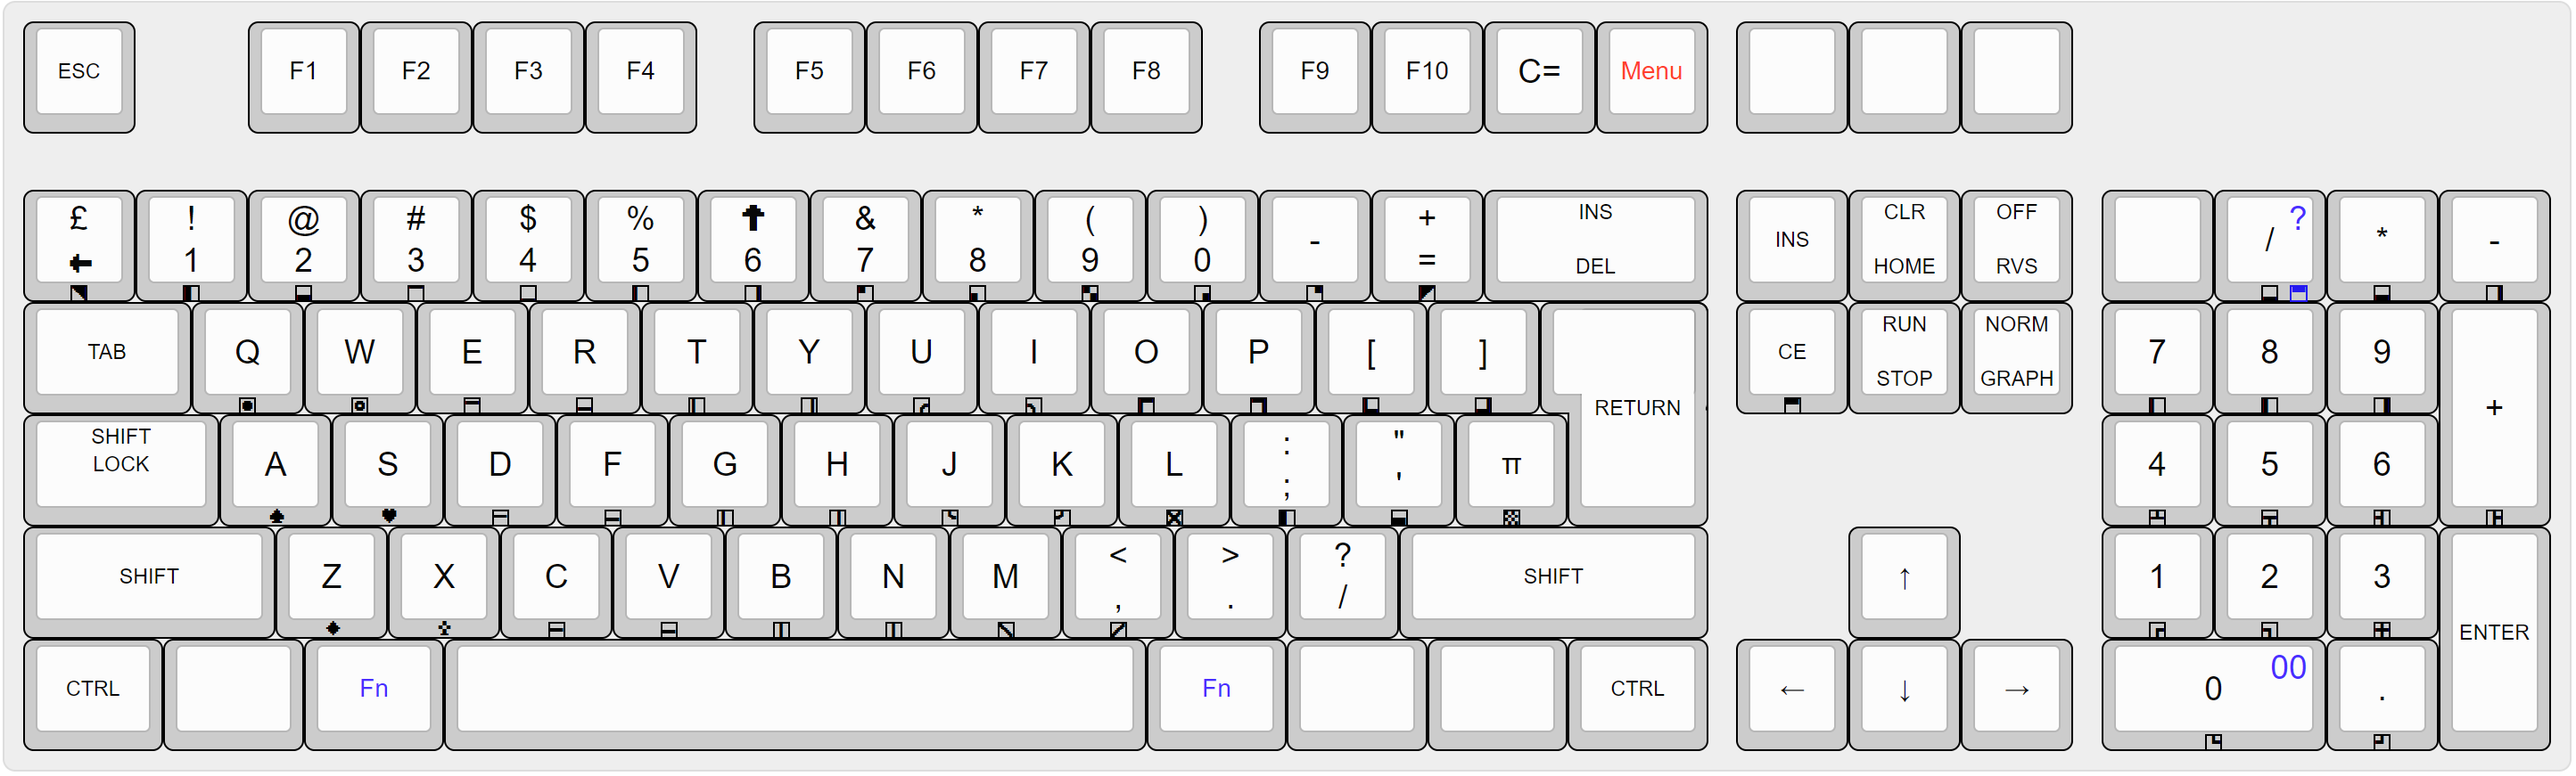
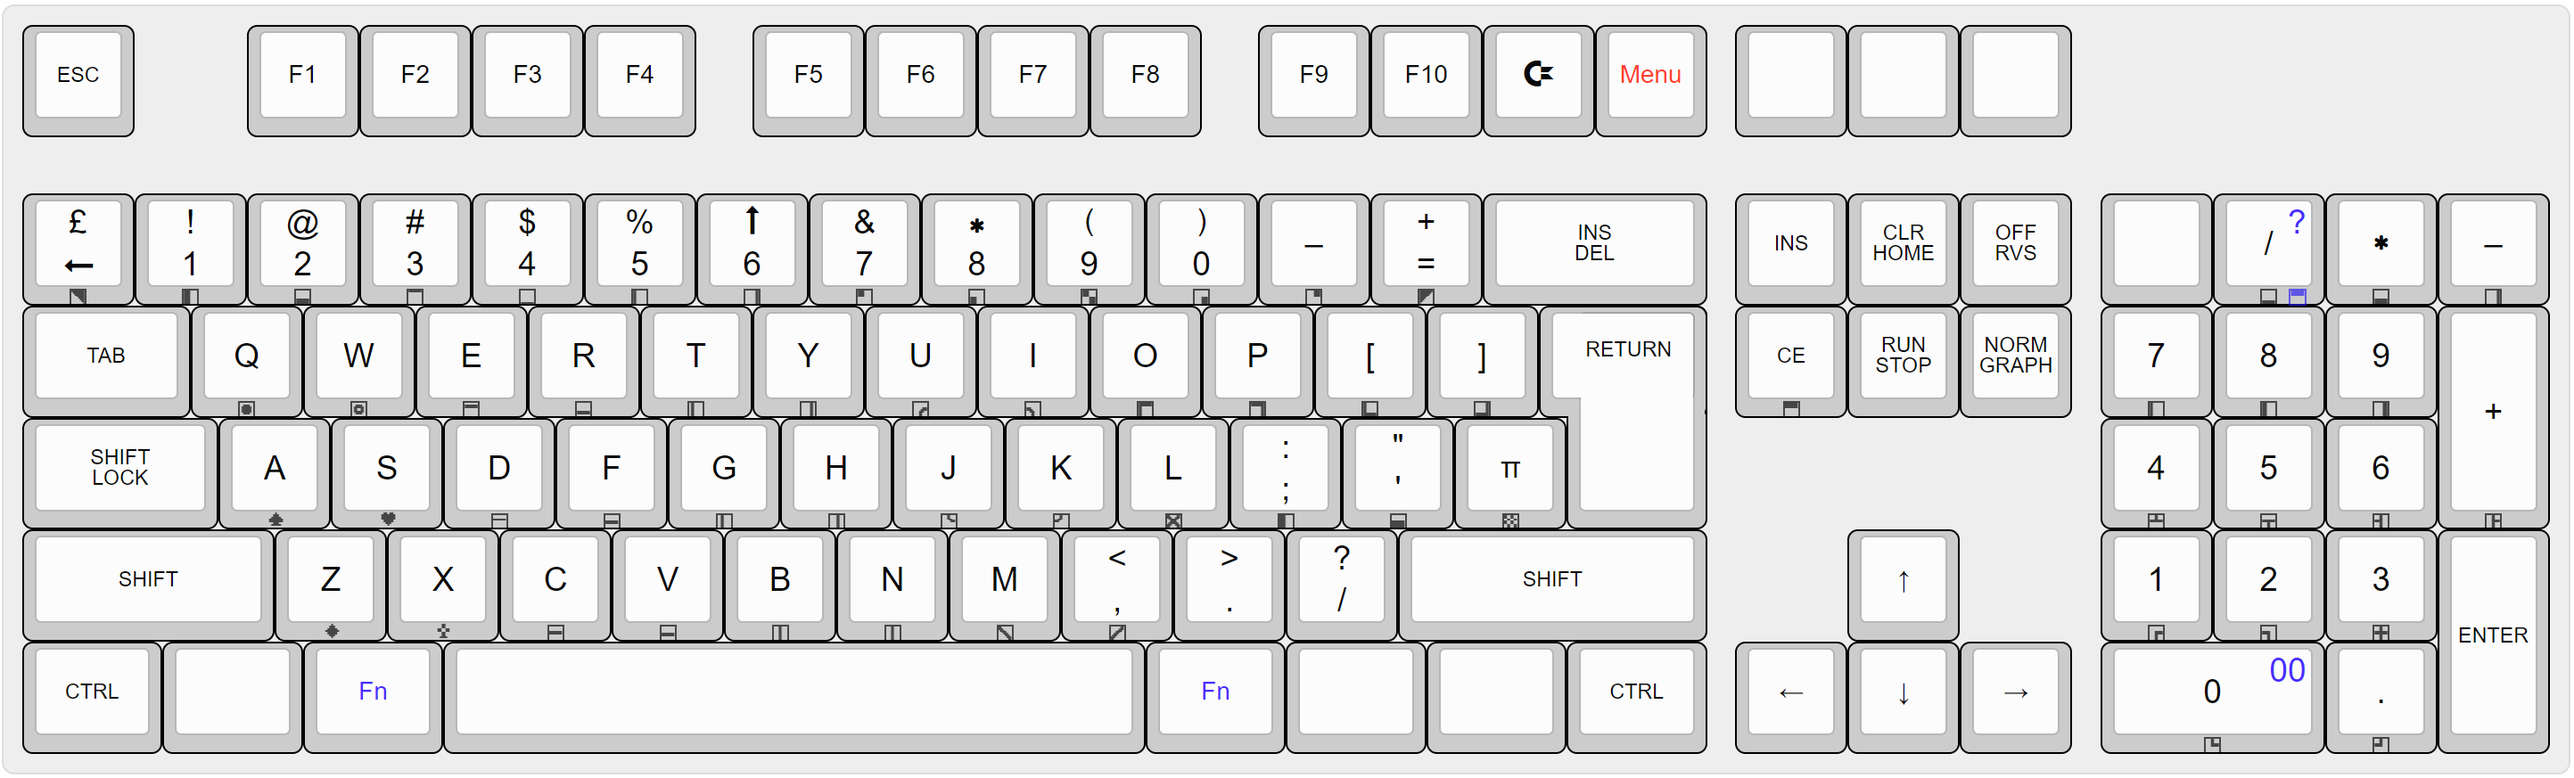
Keyboard doc update

diff --git a/README.md b/README.md
@@ -31,9 +31,10 @@ This is normal behaviour of the 8250 drive.
 
 The following PC keys are mapped to the special CBM-II keys:
 
-* <kbd>End</kbd> &rArr; <kbd>RUN STOP</kbd>
-* <kbd>PgUp</kbd> &rArr; <kbd>OFF RVS</kbd>
-* <kbd>PgDn</kbd> &rArr; <kbd>NORM GRAPH</kbd>
+* <kbd>Home</kbd> &rArr; <kbd>CLR/HOME</kbd>
+* <kbd>End</kbd> &rArr; <kbd>RUN/STOP</kbd>
+* <kbd>PgUp</kbd> &rArr; <kbd>OFF/RVS</kbd>
+* <kbd>PgDn</kbd> &rArr; <kbd>NORM/GRAPH</kbd>
 * <kbd>Delete</kbd> &rArr; <kbd>CE</kbd>
 * <kbd>F11</kbd> &rArr; <kbd>C=</kbd>
 * <kbd>Alt</kbd>+Numpad <kbd>0</kbd> &rArr; <kbd>00</kbd>
